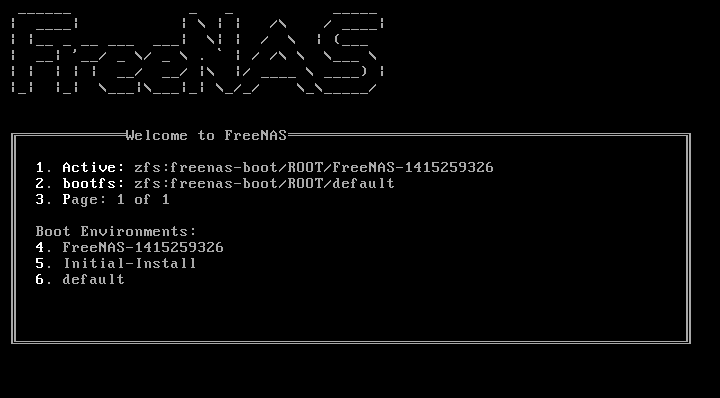
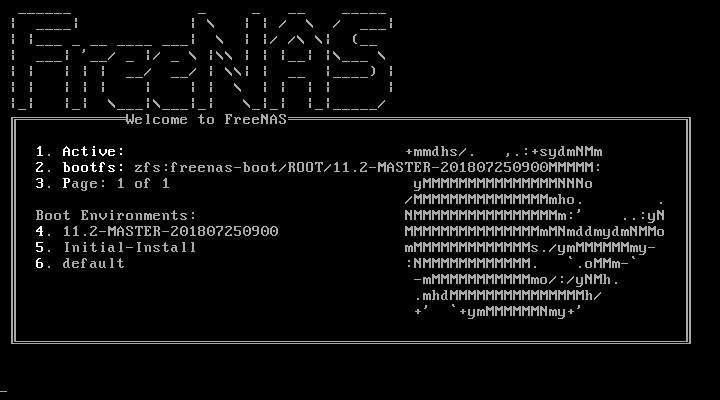
Document 37970, 38455, 38699, 38739, and 35730. All install.rst changes: 37970: - Add text about the automatic boot timer to three locations in install.rst. - Review quick.rst and snippets/console-menu.rst for any other potential location   to add this text. It appears to be unnecessary outside of i
38455:
- Add installermenu.png and delete grubmenu.png. Uncomment this image and surrounding text.
- Update boot-menu.png and boot-env.png. Verify no other changes are needed.

38699:
- Verify updated screenshots have the new artwork.

38739:
- Verify there is no mention in text or visibility in a screenshot of the removed memtest option.

35730:
- Verify new screenshot installermenu.png reflects updated text to "Boot FreeNAS Installer".

install.rst:
- Fix a couple random word errors and line length issues.
- Rewrite all explanatory text for boot-env.png to reflect the current flow.
- Update previously commented text about the installer boot menu.
- Verify Serial Console is an option in the installer boot menu.

diff --git a/userguide/install.rst b/userguide/install.rst
@@ -246,28 +246,25 @@ Performing the Installation
 
 With the installation media inserted, boot the system from that media.
 
-.. TODO ADD TIMER TEXT, UPDATE SCREENSHOT, VERIFY SERIAL VVV
-
 The %brand% installer boot menu is displayed as is shown in
-:numref:`Figure %s <grub_menu_fig>`.
+:numref:`Figure %s <installer_boot_menu_fig>`.
 
 .. _installer_boot_menu_fig:
 
-.. figure:: images/grubmenu.png
+.. figure:: images/installermenu.png
 
    Installer Boot Menu
 
 
 The %brand% installer automatically boots into the default option after
-10 seconds. Press any key except :kbd:`Enter` to stop the timer and
-choose another option.
+ten seconds. If needed, choose another boot option by pressing the
+:kbd:`Spacebar` to stop the timer and then enter the number of the
+desired option.
 
-.. tip:: The Serial Enabled option is useful on systems which do not
-   have a keyboard or monitor, but are accessed through a serial port,
-   *Serial over LAN*, or :ref:`IPMI`.
+.. tip:: The :guilabel:`Serial Console` option is useful on systems
+   which do not have a keyboard or monitor, but are accessed through a
+   serial port, *Serial over LAN*, or :ref:`IPMI`.
 
-
-.. TODO END REVIEW ^^^
 
 .. note:: If the installer does not boot, verify that the installation
    device is listed first in the boot order in the BIOS. When booting
@@ -592,10 +589,14 @@ installation media. Burn the downloaded :file:`.iso` file to a CD or
 USB thumb drive using the instructions in
 :ref:`Preparing the Media`.
 
-Insert the prepared media into the system and boot from it. After the
-media finishes booting into the installation menu, press :kbd:`Enter`
-to select the default option of :guilabel:`1 Install/Upgrade.` The
-installer presents a screen showing all available drives.
+Insert the prepared media into the system and boot from it. The
+installer waits ten seconds in the
+:ref:`installer boot menu <installer_boot_menu_fig>` before booting the
+default option. If needed, press the :kbd:`Spacebar` to stop the timer
+and choose another boot option. After the media finishes booting into
+the installation menu, press :kbd:`Enter` to select the default option
+of :guilabel:`1 Install/Upgrade.` The installer presents a screen
+showing all available drives.
 
 .. warning:: *All* drives are shown, including boot drives and storage
    drives. Only choose boot drives when upgrading. Choosing the wrong
@@ -714,13 +715,10 @@ the boot menu:
    Boot Menu
 
 
-.. tip:: %brand% begins booting into the default boot environment after
-   5 seconds. Press any key except :kbd:`Enter` to stop the automatic
-   boot timer.
-
-
-Press :kbd:`3` to display the available boot environments and
-press :kbd:`3` again as needed to scroll through multiple pages.
+%brand% waits five seconds before booting into the default boot
+environment. Press the :kbd:`Spacebar` to stop the automatic
+boot timer. Press :kbd:`4` to display the available boot environments
+and press :kbd:`3` as needed to scroll through multiple pages.
 
 .. _boot_env_fig:
 
@@ -730,17 +728,22 @@ press :kbd:`3` again as needed to scroll through multiple pages.
 
 
 In the example shown in :numref:`Figure %s <boot_env_fig>`, the first
-boot entry, :literal:`FreeNAS-1415259326`, refers to the current version
-of the operating system, after the update was applied. Since it is the
-first entry, it is the default selection.
+entry in :guilabel:`Boot Environments` is
+:literal:`11.2-MASTER-201807250900`. This is the current version of the
+operating system, after the update was applied. Since it is the first
+entry, it is the default selection.
 
-The next entry, :literal:`Initial-Install`, is the original boot environment
-created when %brand% was first installed. Since there are no other entries
-between the initial installation and the first entry, only one update has
-been applied to this system since its initial installation.
+The next entry is :literal:`Initial-Install`. This is the original boot
+environment created when %brand% was first installed. Since there are no
+other entries between the initial installation and the first entry, only
+one update has been applied to this system since its initial
+installation.
 
-To boot into another version of the operating system, use the down arrow
-to select its entry and press :kbd:`Enter`.
+To boot into another version of the operating system, enter the number
+of the boot environment to set it as :guilabel:`Active`. Press
+:kbd:`Backspace` to return to the :ref:`Boot Menu <boot_menu_fig>` and
+press :kbd:`Enter` to boot into the chosen :guilabel:`Active` boot
+environment.
 
 If a boot device fails and the system no longer boots, don't panic.
 The data is still on the disks and there is still a copy of the saved
@@ -969,7 +972,7 @@ the location of the :file:`.iso` file. If the :file:`.iso` was burned
 to CD, select the detected :guilabel:`Host Drive`.
 
 Depending on the extensions available in the host CPU, it might not be
-possible to boot the VM from :file:`.iso`. If
+possible to boot the VM from an :file:`.iso`. If
 "your CPU does not support long mode" is shown when trying to boot
 the :file:`.iso`, the host CPU either does not have the required
 extension or AMD-V/VT-x is disabled in the system BIOS.
@@ -997,7 +1000,7 @@ device name of *em0*.
 
 
 After configuration is complete, click the :guilabel:`Start` arrow and
-install %brand% as described in `Performing the Installation`_. Once
+install %brand% as described in :ref:`Performing the Installation`. Once
 %brand% is installed, press :kbd:`F12` when the VM starts to boot to
 access the boot menu. Select the primary hard disk as the boot option.
 To permanently boot from disk, remove the :guilabel:`CD/DVD`
